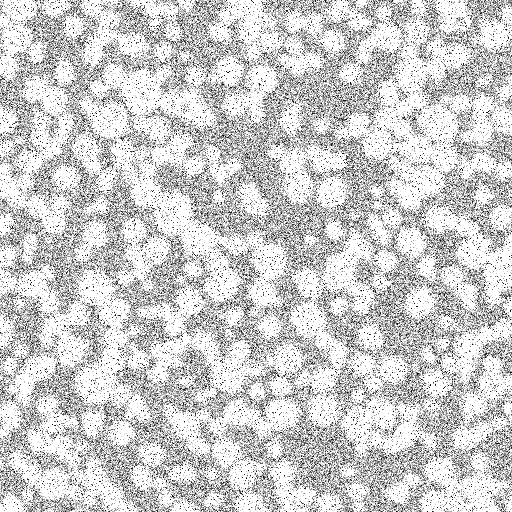
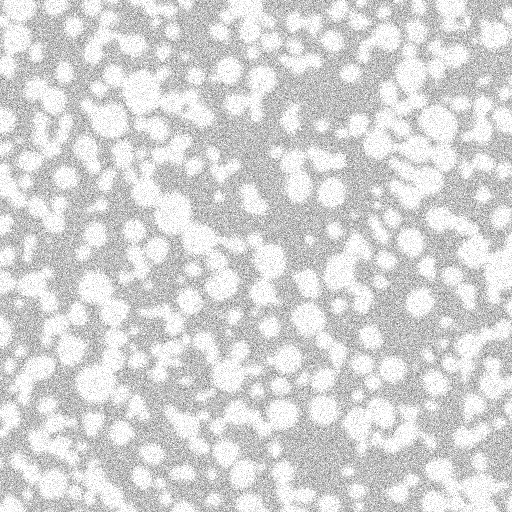
edit synthetic data

diff --git a/distort_img.py b/distort_img.py
@@ -10,18 +10,19 @@ def distort(img):
     :img: a single image (np.ndarray)
     """
     img = img.astype(np.float32)
-    img +=0.5
+    img +=1.5
     img *= 1/np.amax(img)
-    img -= 0.1
+    # img -= 0.1
 
     distorted = filters.gaussian(img, sigma=2)
-    distorted = random_noise(distorted, mode='speckle', var=0.5, mean=0.75, seed=3)
+    distorted = random_noise(distorted, mode='localvar', seed=3)
+    # distorted = filters.gaussian(distorted, sigma=0.5)
     return distorted
 
 def crop_save(img, size, path):
     'crops and saves images'
     new_img = img[:size, :size]
-    plt.imsave(path, new_img, cmap='gray')
+    plt.imsave(path, new_img, cmap='gray', vmin=0, vmax=1)
 
 img = plt.imread('data/nmc_segmented.png')
 distorted = distort(img)
